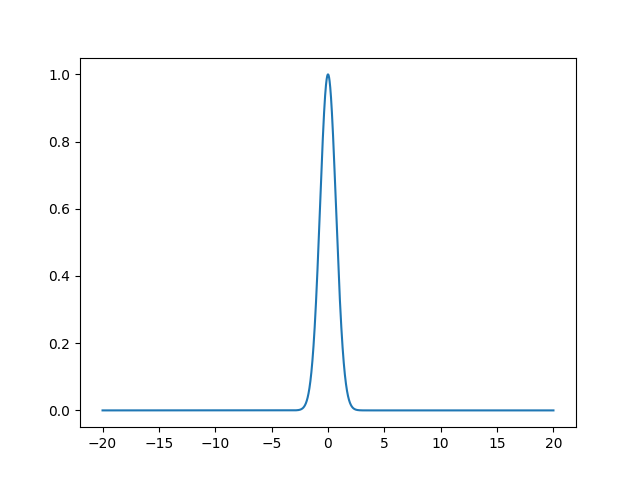
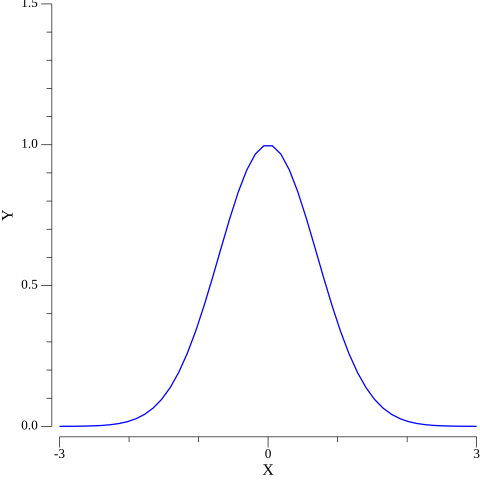
add bsm plots

diff --git a/Codes/go/black_scholes.go b/Codes/go/black_scholes.go
@@ -3,8 +3,14 @@ package main
 import (
 	"fmt"
 	"time"
+	"image/color"
 	"math"
 	"math/rand"
+
+	"gonum.org/v1/plot"
+	"gonum.org/v1/plot/plotter"
+	"gonum.org/v1/plot/vg"
+	"gonum.org/v1/plot/vg/draw"
 )
 
 func rectifier(x float64) float64 {
@@ -47,12 +53,83 @@ func main() {
 
 	// Calculating the Monte Carlo estimator
 	sum_val := 0.0
+	var end_inner []float64
+	var end []float64
 	for _,p := range S {
 		sum_val += rectifier(p[len(p) - 1] - K)
+		end_inner = append(end_inner, rectifier(p[len(p) - 1] - K))
+		end = append(end, p[len(p) - 1])
 	}
 	C0 := math.Exp(-r*T)*sum_val / float64(I)
 
 	duration := time.Since(start)
 	fmt.Printf("European Option Value: %.3f\n", C0)
 	fmt.Println("Execution time: ", duration)
+
+	// Plots
+	//Histogram of all simulated end-of-period index level values
+	histPlot(end, 50, "", "index level", "frequency","end_hist")
+
+	// Histogram of all simulated end-of-period option inner values
+	histPlot(end_inner, 50, "", "option inner value", "frequency", "end_inner_hist")
+
+	var paths [][]float64
+	for i := 0; i < 50; i++ {
+		paths = append(paths, S[i])
+	}
+
+	p := plot.New()
+
+	for _, pth := range paths {
+		current_path := points(pth)
+		p.Title.Text = ""
+		p.X.Label.Text = "time step"
+		p.Y.Label.Text = "index level"
+
+		// Make a line plotter with points and set its style.
+		lpLine, lpPoints, err := plotter.NewLinePoints(current_path)
+		if err != nil {
+			panic(err)
+		}
+		lpLine.Color = color.RGBA{R: uint8(rand.Intn(255)), G: uint8(rand.Intn(255)), B: uint8(rand.Intn(255)),A: 255}
+		lpPoints.Shape = draw.PyramidGlyph{}
+		lpPoints.Color = color.RGBA{R: 255, A: 255}
+
+		p.Add(lpLine)
+	}
+
+	// Save the plot to a PNG file.
+	if err := p.Save(6*vg.Inch, 4*vg.Inch, "paths.png"); err != nil {
+		panic(err)
+	}
+}
+
+
+func histPlot(values plotter.Values, bins int, title string, xLabel string, yLabel string, savename string) {
+    p := plot.New()
+    p.Title.Text = title
+	p.X.Label.Text = xLabel
+    p.Y.Label.Text = yLabel
+    hist, err := plotter.NewHist(values, bins)
+    if err != nil {
+        panic(err)
+    }
+    p.Add(hist)
+
+    if err := p.Save(8*vg.Inch, 6*vg.Inch, savename + ".png"); err != nil {
+        panic(err)
+    }
+}
+
+func points(path []float64) plotter.XYs {
+	pts := make(plotter.XYs, len(path))
+
+	j := 0.0
+	for i := range pts {
+
+		pts[i].X = j
+		pts[i].Y = path[i]
+		j = j + 1.0
+	}
+	return pts
 }

diff --git a/Codes/go/scatter.go b/Codes/go/scatter.go
@@ -1,0 +1,62 @@
+package main
+
+import (
+	"fmt"
+	"image/color"
+	"math/rand"
+
+	"gonum.org/v1/plot"
+	"gonum.org/v1/plot/plotter"
+	"gonum.org/v1/plot/vg"
+	"gonum.org/v1/plot/vg/draw"
+)
+
+func main() {
+	// Get some random points
+	rand.Seed(int64(0))
+	n := 15
+
+	linePointsData := randomPoints(n)
+
+	fmt.Println(linePointsData)
+
+	// Create a new plot, set its title and
+	// axis labels.
+	p := plot.New()
+
+	p.Title.Text = "Points Example"
+	p.X.Label.Text = "X"
+	p.Y.Label.Text = "Y"
+	// Draw a grid behind the data
+	p.Add(plotter.NewGrid())
+
+	// Make a line plotter with points and set its style.
+	lpLine, lpPoints, err := plotter.NewLinePoints(linePointsData)
+	if err != nil {
+		panic(err)
+	}
+	lpLine.Color = color.RGBA{R: uint8(rand.Intn(255)), G: uint8(rand.Intn(255)), B: uint8(rand.Intn(255)),A: 255}
+	lpPoints.Shape = draw.PyramidGlyph{}
+	lpPoints.Color = color.RGBA{R: 255, A: 255}
+
+	p.Add(lpLine)
+
+	// Save the plot to a PNG file.
+	if err := p.Save(4*vg.Inch, 4*vg.Inch, "points.png"); err != nil {
+		panic(err)
+	}
+}
+
+// randomPoints returns some random x, y points.
+func randomPoints(n int) plotter.XYs {
+	pts := make(plotter.XYs, n)
+	for i := range pts {
+		if i == 0 {
+			pts[i].X = rand.Float64()
+		} else {
+			pts[i].X = pts[i-1].X + rand.Float64()
+		}
+		pts[i].Y = pts[i].X + 10*rand.Float64()
+	}
+	return pts
+}

diff --git a/Codes/go/gaussian.go b/Codes/go/gaussian.go
@@ -1,0 +1,32 @@
+package main
+
+import (
+	"image/color"
+	"math"
+
+	"gonum.org/v1/plot"
+	"gonum.org/v1/plot/plotter"
+	"gonum.org/v1/plot/vg"
+)
+
+func main() {
+	p := plot.New()
+	p.Title.Text = ""
+	p.X.Label.Text = "X"
+	p.Y.Label.Text = "Y"
+
+	gauss := plotter.NewFunction(func(x float64) float64 { return math.Exp(-x*x) })
+	gauss.Color = color.RGBA{B: 255, A: 255}
+
+	p.Add(gauss)
+
+	p.X.Min = -3
+	p.X.Max = 3
+	p.Y.Min = 0
+	p.Y.Max = 1.5
+
+	// Save the plot to a PNG file.
+	if err := p.Save(5*vg.Inch, 5*vg.Inch, "gaussian.png"); err != nil {
+		panic(err)
+	}
+}

diff --git a/content/posts/montecarlo.md b/content/posts/montecarlo.md
@@ -461,7 +461,7 @@ We are going to use this technique to solve a classic problem. If you are a calc
 
 It involves a trick using Fubini's theorem and change in from cartesian to polar coordinates. Surprisingly, the result of this integral is $\sqrt{\pi}$. Let's use Monte Carlo integration to evaluate $$\bar{S} = \int_{-20}^{20} e^{-x^2}dx.$$
 
-<div style="text-align:center"><img src="/img/posts/montecarlo/function.png" style="width: 50%; margin: 2%"></div>
+<div style="text-align:center"><img src="/img/posts/montecarlo/function.png" style="width: 35%; margin: 2%"></div>
 
 We see that $f$ rapidly decreases when moving away from $x=0$, so the definite integral in $[-20,20]$ seems to be a good approximation.
 
